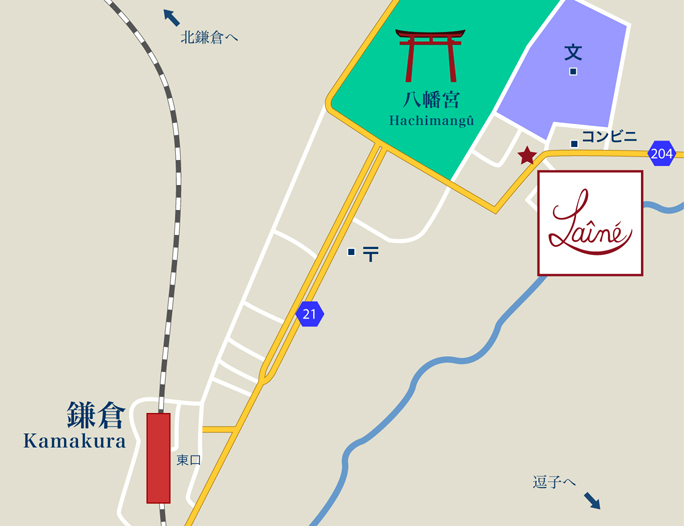
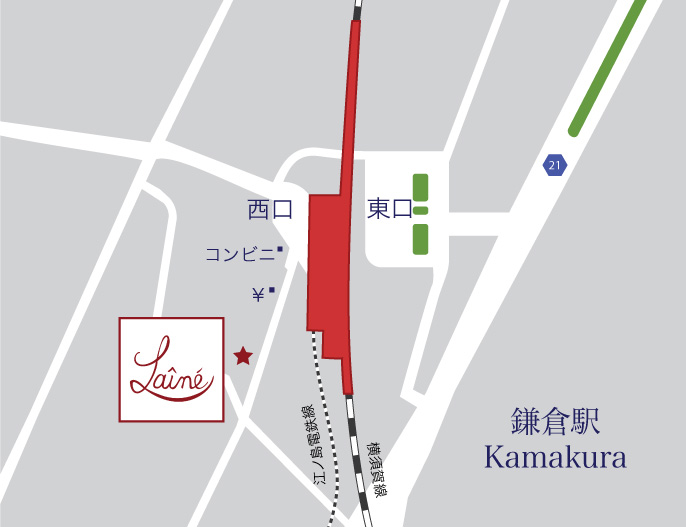
Updated restaurant location

diff --git a/info.html b/info.html
@@ -23,11 +23,11 @@
 			<table>
 				<tr>
 					<td><p class="titre">住所</p></td>
-					<td><p class="content">神奈川県鎌倉市雪の下３−３−２６</p></td>
+					<td><p class="content">神奈川県鎌倉市御成町１０番４<br />鎌倉駅西口 御成通り<br />徒歩1分</p></td>
 				</tr>
 				<tr>
 					<td><p class="titre">電話</p></td>
-					<td><p class="content">０４６７−８１−５６４６</p></td>
+					<td><p class="content">０４６７−４０−３００８</p></td>
 				</tr>
 				<tr>
 					<td><p class="titre">定休日</p></td>
@@ -35,7 +35,7 @@
 				</tr>
 				<tr>
 					<td><p class="titre">営業時間</p></td>
-					<td><p class="content">11:30 ~ L.O. 13:00<br />18:00 ~ L.O. 20:00</p></td>
+					<td><p class="content">11:00 ~ 14:00<br />18:00 ~ 21:00</p></td>
 			</table>
 		</div>
 		<div id="pictures">
